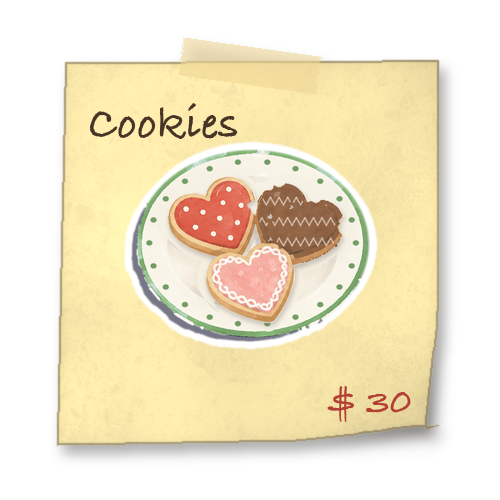
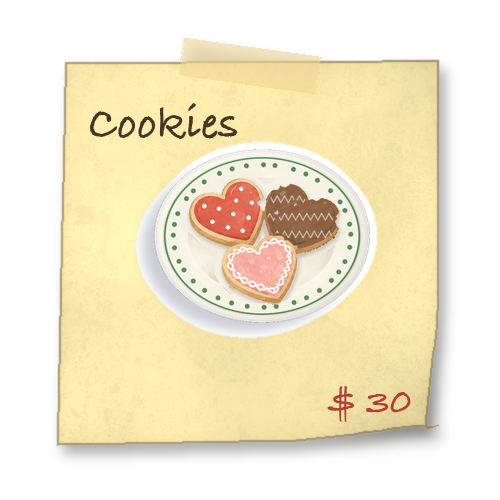
Station tray sized from the colliders (the sprites have empty padding); Cookies sticker from the new plate; manual

Changed region(s): [[0.24, 0.27, 0.75, 0.72]]

diff --git a/Assets/Scripts/Utils/FixedStation.cs b/Assets/Scripts/Utils/FixedStation.cs
@@ -40,7 +40,8 @@ public static class FixedStation
         foreach (var t in new[] { machine != null ? machine.transform : null, food != null ? food.transform : null })
         {
             if (t == null) continue;
-            var sr = t.GetComponent<SpriteRenderer>(); var b = sr != null ? sr.bounds : new Bounds(t.position, Vector3.one);
+            var col = t.GetComponent<Collider>(); var col2 = t.GetComponent<Collider2D>(); var sr = t.GetComponent<SpriteRenderer>();
+            var b = col != null ? col.bounds : col2 != null ? col2.bounds : sr != null ? sr.bounds : new Bounds(t.position, Vector3.one);   // the collider hugs the drawing; the sprite has empty padding
             var halfW = b.extents.x; var halfH = b.extents.y;
             var dx = t.position.x - b.center.x; var dy = t.position.y - b.center.y;   // the pivot's offset from the picture's centre
             t.position = new Vector3(x + halfW + dx, floorY + halfH + dy, t.position.z);

diff --git a/Docs/MANUAL.md b/Docs/MANUAL.md
@@ -18,7 +18,7 @@ Last updated 14 October 2026, evening (menu book, economy tune, tutorial additio
 | Live | **26.10.13 build 4** (released by the owner by 16 October 2026; version id 0abde827-2bd8-47e1-959e-c9f7d63d06a4). Before it: 26.10.09 build 4, released 12 October |
 | In review | Nothing |
 | TestFlight | 26.10.17 build 2 (16 October 17:58: the shop layout, popup, prices, day-end note, carousel, longer days, stickers, white receipt, cookies; `Builds/iOS-26.10.17-2`) and build 1 (16 October evening, up to the shared ovens; `Builds/iOS-26.10.17-1`). Before it 26.10.13 builds 1 to 4 (4 = the submitted one). `ProjectSettings` is at 26.10.17 build 2 |
-| On main after build 4 | 13 October night fixes, and 14 October: the menu book (grid, oven notes, station caps), Cookies back as a buy, the economy tune, Day 0 coffee bags and fruit tree, the gingham order receipt and finish panel, real star shapes, test ads on TestFlight builds, chapter 2 groundwork. Not in any build yet; 16 October: Unity Analytics (AnalyticsLog, development environment for editor and TestFlight), the menu as a single board that shrinks to a small copy of itself when closed (no table icon), shop prices in layers per category (16 October evening, lowered on the owner's "probably lower": Juice 110, Apple 300, Cookies 600, Choux 1,000, Cake 1,500; Yoga 220, Grandma 380, Chef 700, Businessman 1,400; plates 380, coffee machine 800; pots 450 and 900; $8,740 in all; the afternoon's set was $10,650, before that $5,350), the text system (black titles and money with a cream rim, brown rimless hints, orange buttons), the two flower pots as Decor shop items (600 and 1,400; +15 % order time each, `DecorGate`, `purchasedDecor`), Daily Treats' repeatable "One more treat" ad button (20 to 50 coins, `DailyTreatsAd`; the button says ONE MORE TREAT alone), the chapter 1 background with Gemini's bushes behind our grass (`Store/bg_polish/bush_blend.py`, the old file in `bg_original.png`), the pots cut along the objects, chapter-only foods and sticker paper colours (`SessionManager.FoodChapter`: Apple and Coffee chapter 1, Coconut and IceCream chapter 2; `IsFoodInSeason`; `MenuBook.PaperColour` mint/yellow/blue; another chapter's food greyed in the carousel), shared ovens (`OvenAssigner`, `OvenKitchenBase.BakeTimes`), the placed sound when a sticker lands (serve sound, Juice only today). In TestFlight 26.10.17 (1). After that upload: the menu stickers' first full run (`Store/ui/stickers/stickers_v2.py`: the old notes' paper, a corner flip and a thin edge on each, the food's own sprite with a white rim, no words; old files in `Store/ui/stickers/orig`), paper tilt on the menu 4 degrees at most; the order receipt back to the white one with the barcode (`paper 4.png` from before 14 October, text at (-5, 20)); the patience meter picks its flower by chapter (`PatienceMeter.Chapter2Kind`, sprites `Resources/Patience/<kind>_petal|_centre`, `PreviewKind` for editor previews; `Store/artkit/hibiscus_options.py`); the shop laid out at runtime (`ShopManager.LayoutCards`: sorted cheap to expensive, three columns, `cardScale` 0.62, the content box sized to the rows so the arrows and a drag share the same bounds and the lock shows at the bottom either way), purchase feedback in the label's own colour, the day-end money lines centred with the amount on its own line when it would not fit (`LevelManager.SetMoneyLine`), the menu carousel stickers doubled (280), days 1 to 8 five seconds longer and 9 to 16 ten seconds longer (`Level*Data.dayDurationSeconds`; star lines unchanged, checked with the driver). Chapter 2 build started 16 October night behind `Chapter.Count = 1` (a static field now, flipped by the `ch2_*` recipes for tests): `Level25..32Data`, the map in pages (`MapScreen.page`, `StarsCh2`, `Resources/Map/bg_ch2`, `title_ch2`, `arrow_right`, `arrow_left`), `Resources/Chapter2/bg_day`, `bg_night` (DayNightTint fades the painted night in), `cloth` (the owner's stripes), `shop_bg` (the owner's pick), all through `Chapter.Art` |
+| On main after build 4 | 13 October night fixes, and 14 October: the menu book (grid, oven notes, station caps), Cookies back as a buy, the economy tune, Day 0 coffee bags and fruit tree, the gingham order receipt and finish panel, real star shapes, test ads on TestFlight builds, chapter 2 groundwork. Not in any build yet; 16 October: Unity Analytics (AnalyticsLog, development environment for editor and TestFlight), the menu as a single board that shrinks to a small copy of itself when closed (no table icon), shop prices in layers per category (16 October evening, lowered on the owner's "probably lower": Juice 110, Apple 300, Cookies 600, Choux 1,000, Cake 1,500; Yoga 220, Grandma 380, Chef 700, Businessman 1,400; plates 380, coffee machine 800; pots 450 and 900; $8,740 in all; the afternoon's set was $10,650, before that $5,350), the text system (black titles and money with a cream rim, brown rimless hints, orange buttons), the two flower pots as Decor shop items (600 and 1,400; +15 % order time each, `DecorGate`, `purchasedDecor`), Daily Treats' repeatable "One more treat" ad button (20 to 50 coins, `DailyTreatsAd`; the button says ONE MORE TREAT alone), the chapter 1 background with Gemini's bushes behind our grass (`Store/bg_polish/bush_blend.py`, the old file in `bg_original.png`), the pots cut along the objects, chapter-only foods and sticker paper colours (`SessionManager.FoodChapter`: Apple and Coffee chapter 1, Coconut and IceCream chapter 2; `IsFoodInSeason`; `MenuBook.PaperColour` mint/yellow/blue; another chapter's food greyed in the carousel), shared ovens (`OvenAssigner`, `OvenKitchenBase.BakeTimes`), the placed sound when a sticker lands (serve sound, Juice only today). In TestFlight 26.10.17 (1). After that upload: the menu stickers' first full run (`Store/ui/stickers/stickers_v2.py`: the old notes' paper, a corner flip and a thin edge on each, the food's own sprite with a white rim, no words; old files in `Store/ui/stickers/orig`), paper tilt on the menu 4 degrees at most; the order receipt back to the white one with the barcode (`paper 4.png` from before 14 October, text at (-5, 20)); the patience meter picks its flower by chapter (`PatienceMeter.Chapter2Kind`, sprites `Resources/Patience/<kind>_petal|_centre`, `PreviewKind` for editor previews; `Store/artkit/hibiscus_options.py`); the shop laid out at runtime (`ShopManager.LayoutCards`: sorted cheap to expensive, three columns, `cardScale` 0.62, the content box sized to the rows so the arrows and a drag share the same bounds and the lock shows at the bottom either way), purchase feedback in the label's own colour, the day-end money lines centred with the amount on its own line when it would not fit (`LevelManager.SetMoneyLine`), the menu carousel stickers doubled (280), days 1 to 8 five seconds longer and 9 to 16 ten seconds longer (`Level*Data.dayDurationSeconds`; star lines unchanged, checked with the driver). 16 October night: the shop popup in a chalk hand (Gloria Hallelujah SDF, OFL, in `TextMesh Pro/Fonts/Gloria Hallelujah`; blue price, a `specialNote` per card in chalk yellow), the heart cookies cut along their biscuit edge (`Store/artkit/cookie_hearts2.py`) and the plate with a porcelain rim (`cookie_plate.py`, originals in `Store/artkit/plate_orig`), Cookies bake 6 s, a fixed food per chapter on its own station (`SessionManager.FixedFood`: Coffee, chapter 2 IceCream; `FixedStation`, `StationGroup`: the machine is the handle, cups and tray follow; tray sprite `Resources/Table/coffee_station`), chapter 2 unlock items (`UnlockChapter`: Cookies, Coconut show with a lock in the shop until chapter 2 is started), the Coconut food scripts (table object and shop card from `/tmp/ap/add_coconut.cs` once the sprites exist), stickers' third run with names and serving prices. Chapter 2 build started 16 October night behind `Chapter.Count = 1` (a static field now, flipped by the `ch2_*` recipes for tests): `Level25..32Data`, the map in pages (`MapScreen.page`, `StarsCh2`, `Resources/Map/bg_ch2`, `title_ch2`, `arrow_right`, `arrow_left`), `Resources/Chapter2/bg_day`, `bg_night` (DayNightTint fades the painted night in), `cloth` (the owner's stripes), `shop_bg` (the owner's pick), all through `Chapter.Art` |
 
 What 26.10.13 brings over 26.10.09: two customers at the counter at once, days on a clock (dusk and night as the
 day ends), patience as three daisies per order (each serve brings one back), the chapter map (16 days, stars,
